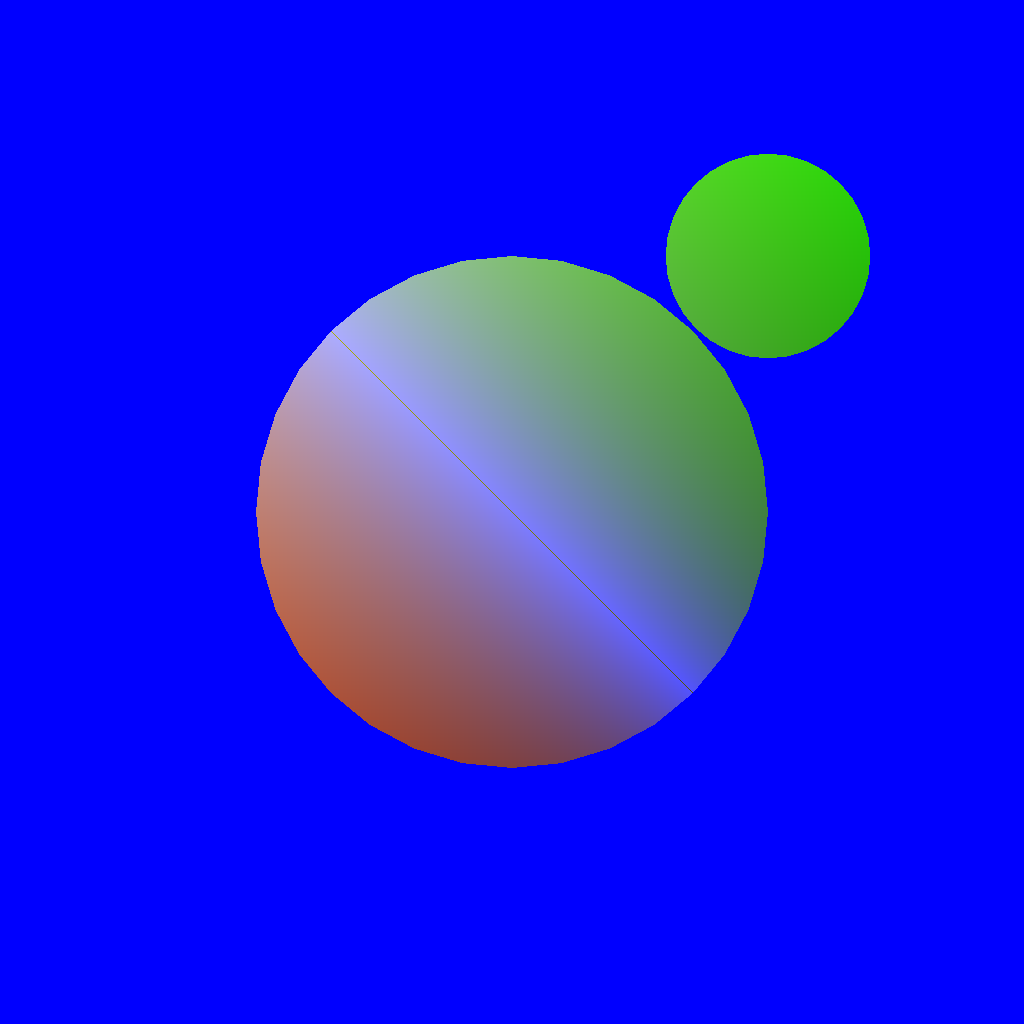
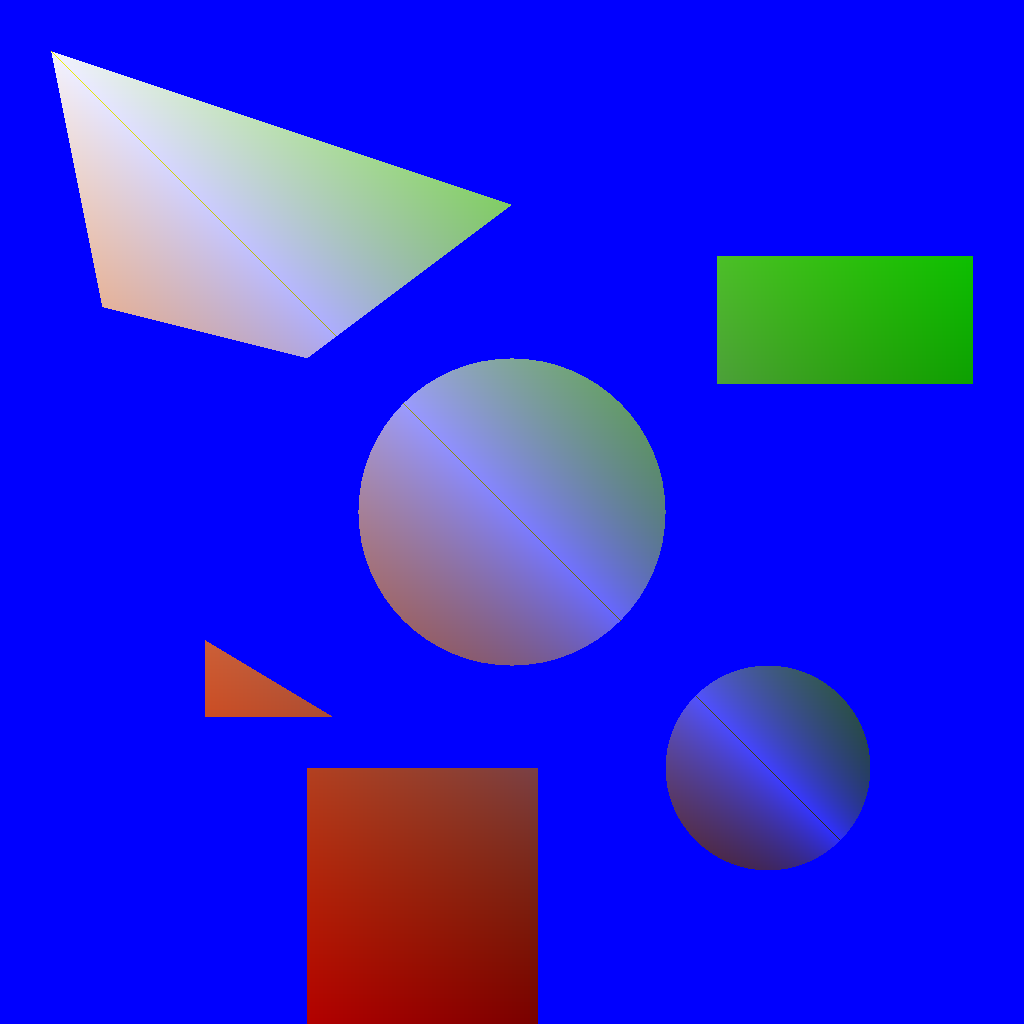
added more shapes

diff --git a/src/graphics.rs b/src/graphics.rs
@@ -1,7 +1,7 @@
-use vulkano::instance::{Instance, InstanceExtensions, PhysicalDevice};
 use vulkano::device::{Device, DeviceExtensions, Features, Queue};
 use vulkano::format::Format;
 use vulkano::image::{Dimensions, StorageImage};
+use vulkano::instance::{Instance, InstanceExtensions, PhysicalDevice};
 
 use vulkano::buffer::{BufferUsage, CpuAccessibleBuffer};
 use vulkano::command_buffer::{AutoCommandBufferBuilder, CommandBuffer};
@@ -14,16 +14,20 @@ use image::{ImageBuffer, Rgba};
 
 use vulkano::framebuffer::Framebuffer;
 
-use vulkano::pipeline::{GraphicsPipeline, vertex::TwoBuffersDefinition};
 use vulkano::framebuffer::Subpass;
+use vulkano::pipeline::{vertex::TwoBuffersDefinition, GraphicsPipeline};
 
 use vulkano::command_buffer::DynamicState;
 use vulkano::pipeline::viewport::Viewport;
 
 use lyon::math::Point;
-use lyon::tessellation::{VertexBuffers, FillOptions};
 use lyon::tessellation::basic_shapes;
-use lyon::tessellation::geometry_builder::simple_builder;
+use lyon::tessellation::FillTessellator;
+use lyon::tessellation::geometry_builder::{simple_builder, GeometryBuilder, FillGeometryBuilder, BuffersBuilder};
+use lyon::tessellation::math::Rect;
+use lyon::tessellation::math::Size;
+use lyon::tessellation::{FillOptions, VertexBuffers};
+use lyon::path::Path;
 
 #[derive(Default, Copy, Clone)]
 pub struct Vertex {
@@ -39,14 +43,14 @@ vulkano::impl_vertex!(Vertex, position);
 vulkano::impl_vertex!(Color, rgba);
 
 mod vs {
-    vulkano_shaders::shader!{
+    vulkano_shaders::shader! {
         ty: "vertex",
         path: "src/triangle.vert",
     }
 }
 
 mod fs {
-    vulkano_shaders::shader!{
+    vulkano_shaders::shader! {
         ty: "fragment",
         path: "src/triangle.frag",
     }
@@ -65,14 +69,25 @@ pub struct GraphicsContext {
 impl GraphicsContext {
     pub fn new() -> Self {
         let instance = Instance::new(None, &InstanceExtensions::none(), None).unwrap();
-        let physical = PhysicalDevice::enumerate(&instance).next().expect("no device available");
+        let physical = PhysicalDevice::enumerate(&instance)
+            .next()
+            .expect("no device available");
 
-        let queue_family = physical.queue_families()
+        let queue_family = physical
+            .queue_families()
             .find(|&q| q.supports_graphics())
             .expect("couldn't find a graphical queue family");
         let (device, mut queues) = {
-            Device::new(physical, &Features::none(), &DeviceExtensions{khr_storage_buffer_storage_class:true, ..DeviceExtensions::none()},
-                [(queue_family, 0.5)].iter().cloned()).expect("failed to create device")
+            Device::new(
+                physical,
+                &Features::none(),
+                &DeviceExtensions {
+                    khr_storage_buffer_storage_class: true,
+                    ..DeviceExtensions::none()
+                },
+                [(queue_family, 0.5)].iter().cloned(),
+            )
+            .expect("failed to create device")
         };
 
         let queue = queues.next().unwrap();
@@ -84,9 +99,9 @@ impl GraphicsContext {
             viewports: Some(vec![Viewport {
                 origin: [0.0, 0.0],
                 dimensions: [1024.0, 1024.0],
-                depth_range: 0.0 .. 1.0,
+                depth_range: 0.0..1.0,
             }]),
-            .. DynamicState::none()
+            ..DynamicState::none()
         };
 
         GraphicsContext {
@@ -101,76 +116,118 @@ impl GraphicsContext {
     }
 
     pub fn draw(&mut self) {
-        let buf = CpuAccessibleBuffer::from_iter(self.device.clone(), BufferUsage::all(), (0..1024*1024*4).map(|_| 0u8))
-            .expect("failed to create buffer");
+        let buf = CpuAccessibleBuffer::from_iter(
+            self.device.clone(),
+            BufferUsage::all(),
+            (0..1024 * 1024 * 4).map(|_| 0u8),
+        )
+        .expect("failed to create buffer");
 
-        let image = StorageImage::new(self.device.clone(), Dimensions::Dim2d { width: 1024, height: 1024 },
-        Format::R8G8B8A8Unorm, Some(self.queue.family())).unwrap();
+        let image = StorageImage::new(
+            self.device.clone(),
+            Dimensions::Dim2d {
+                width: 1024,
+                height: 1024,
+            },
+            Format::R8G8B8A8Unorm,
+            Some(self.queue.family()),
+        )
+        .unwrap();
 
-        let render_pass = Arc::new(vulkano::single_pass_renderpass!(self.device.clone(),
-        attachments: {
-            color: {
-                load: Clear,
-                store: Store,
-                format: Format::R8G8B8A8Unorm,
-                samples: 1,
+        let render_pass = Arc::new(
+            vulkano::single_pass_renderpass!(self.device.clone(),
+            attachments: {
+                color: {
+                    load: Clear,
+                    store: Store,
+                    format: Format::R8G8B8A8Unorm,
+                    samples: 1,
+                }
+            },
+            pass: {
+                color: [color],
+                depth_stencil: {}
             }
-        },
-        pass: {
-            color: [color],
-            depth_stencil: {}
-        }
-        ).unwrap());
-        let framebuffer = Arc::new(Framebuffer::start(render_pass.clone())
-            .add(image.clone()).unwrap()
-            .build().unwrap());
+            )
+            .unwrap(),
+        );
+        let framebuffer = Arc::new(
+            Framebuffer::start(render_pass.clone())
+                .add(image.clone())
+                .unwrap()
+                .build()
+                .unwrap(),
+        );
 
-        AutoCommandBufferBuilder::primary_one_time_submit(self.device.clone(), self.queue.family()).unwrap()
-            .begin_render_pass(framebuffer.clone(), false, vec![[0.0, 0.0, 1.0, 1.0].into()])
+        AutoCommandBufferBuilder::primary_one_time_submit(self.device.clone(), self.queue.family())
+            .unwrap()
+            .begin_render_pass(
+                framebuffer.clone(),
+                false,
+                vec![[0.0, 0.0, 1.0, 1.0].into()],
+            )
             .unwrap()
             .end_render_pass()
             .unwrap();
 
-        let graphics_pipeline = Arc::new(GraphicsPipeline::start()
-            .vertex_input_single_buffer::<Vertex>()
-            // .vertex_input(TwoBuffersDefinition::<Vertex, Color>::new())
-            .vertex_shader(self.vertex_shader.main_entry_point(), ())
-            .viewports_dynamic_scissors_irrelevant(1)
-            .fragment_shader(self.fragment_shader.main_entry_point(), ())
-            .render_pass(Subpass::from(render_pass.clone(), 0).unwrap())
-            .build(self.device.clone())
-            .unwrap());
+        let graphics_pipeline = Arc::new(
+            GraphicsPipeline::start()
+                .vertex_input_single_buffer::<Vertex>()
+                // .vertex_input(TwoBuffersDefinition::<Vertex, Color>::new())
+                .vertex_shader(self.vertex_shader.main_entry_point(), ())
+                .viewports_dynamic_scissors_irrelevant(1)
+                .fragment_shader(self.fragment_shader.main_entry_point(), ())
+                .render_pass(Subpass::from(render_pass.clone(), 0).unwrap())
+                .build(self.device.clone())
+                .unwrap(),
+        );
 
-        let vertex_buffer = self.geometry.vertices.iter().map(|vertex|{
-            Vertex {
-                position: [vertex.x, vertex.y],
-            }
+        let vertex_buffer = self.geometry.vertices.iter().map(|vertex| Vertex {
+            position: [vertex.x, vertex.y],
         });
-        let vertex_buffer = CpuAccessibleBuffer::from_iter(self.device.clone(), BufferUsage::all(), vertex_buffer).unwrap();
-        let index_buffer = CpuAccessibleBuffer::from_iter(self.device.clone(), BufferUsage::all(), self.geometry.indices.iter().cloned()).unwrap();
+        let vertex_buffer =
+            CpuAccessibleBuffer::from_iter(self.device.clone(), BufferUsage::all(), vertex_buffer)
+                .unwrap();
+        let index_buffer = CpuAccessibleBuffer::from_iter(
+            self.device.clone(),
+            BufferUsage::all(),
+            self.geometry.indices.iter().cloned(),
+        )
+        .unwrap();
 
-
-        let command_buffer = AutoCommandBufferBuilder::primary_one_time_submit(self.device.clone(), self.queue.family()).unwrap()
-            .begin_render_pass(framebuffer.clone(), false, vec![[0.0, 0.0, 1.0, 1.0].into()])
-            .unwrap()
-            .draw_indexed(
-                graphics_pipeline.clone(), 
-                &self.dynamic_state, 
-                vertex_buffer.clone(), 
-                index_buffer.clone(), 
-                (), 
-                ())
-            .unwrap()
-            .end_render_pass()
-            .unwrap()
-            .copy_image_to_buffer(image.clone(), buf.clone())
-            .unwrap()
-            .build()
-            .unwrap();
+        let command_buffer = AutoCommandBufferBuilder::primary_one_time_submit(
+            self.device.clone(),
+            self.queue.family(),
+        )
+        .unwrap()
+        .begin_render_pass(
+            framebuffer.clone(),
+            false,
+            vec![[0.0, 0.0, 1.0, 1.0].into()],
+        )
+        .unwrap()
+        .draw_indexed(
+            graphics_pipeline.clone(),
+            &self.dynamic_state,
+            vertex_buffer.clone(),
+            index_buffer.clone(),
+            (),
+            (),
+        )
+        .unwrap()
+        .end_render_pass()
+        .unwrap()
+        .copy_image_to_buffer(image.clone(), buf.clone())
+        .unwrap()
+        .build()
+        .unwrap();
 
         let finished = command_buffer.execute(self.queue.clone()).unwrap();
-        finished.then_signal_fence_and_flush().unwrap()
-            .wait(None).unwrap();
+        finished
+            .then_signal_fence_and_flush()
+            .unwrap()
+            .wait(None)
+            .unwrap();
 
         let buffer_content = buf.read().unwrap();
         let image = ImageBuffer::<Rgba<u8>, _>::from_raw(1024, 1024, &buffer_content[..]).unwrap();
@@ -179,8 +236,52 @@ impl GraphicsContext {
         self.geometry.indices.clear();
     }
 
-    pub fn new_circle(&mut self, pos: Point, rad: f32) {
-        let options = FillOptions::tolerance(0.001);
-        basic_shapes::fill_circle(pos, rad, &options, &mut simple_builder(&mut self.geometry));
+    pub fn new_circle(&mut self, pos: impl Into<Point>, rad: f32) {
+        let options = FillOptions::tolerance(0.0001);
+        basic_shapes::fill_circle(
+            pos.into(),
+            rad,
+            &options,
+            &mut simple_builder(&mut self.geometry),
+        );
+    }
+
+    pub fn new_rectangle(&mut self, pos: impl Into<Point>, sides: impl Into<Size>) {
+        let options = FillOptions::non_zero();
+        let rect = Rect::new(pos.into(), sides.into());
+        basic_shapes::fill_rectangle(&rect, &options, &mut simple_builder(&mut self.geometry));
+    }
+
+    pub fn new_quad(&mut self, points: [impl Into<Point> + Copy; 4]) {
+        let options = FillOptions::non_zero();
+        basic_shapes::fill_quad(
+            points[0].into(),
+            points[1].into(),
+            points[2].into(),
+            points[3].into(),
+            &options,
+            &mut simple_builder(&mut self.geometry),
+        );
+    }
+
+    pub fn new_triangle(&mut self, points: [impl Into<Point> + Copy; 3]) {
+        let options = FillOptions::default();
+
+        let mut path_builder = Path::builder();
+        path_builder.move_to(points[0].into());
+        path_builder.line_to(points[1].into());
+        path_builder.line_to(points[2].into());
+        path_builder.close();
+
+        let path = path_builder.build();
+
+        let mut tesselator = FillTessellator::new();
+        tesselator.tessellate_with_ids(
+            path.id_iter(),
+            &path,
+            Some(&path),
+            &options,
+            &mut simple_builder(&mut self.geometry),
+            );
     }
 }

diff --git a/src/main.rs b/src/main.rs
@@ -1,17 +1,15 @@
 mod graphics;
 use graphics::GraphicsContext;
-use graphics::Vertex;
-
-use lyon::math::Point;
-use lyon::tessellation::{VertexBuffers, FillOptions};
-use lyon::tessellation::basic_shapes;
-use lyon::tessellation::geometry_builder::simple_builder;
 
 fn main() {
-    // image.save("triangle.png").unwrap()
-    
     let mut ctx = GraphicsContext::new();
-    ctx.new_circle(Point::new(0.0, 0.0), 0.5);
-    ctx.new_circle(Point::new(0.5, -0.5), 0.2);
+    ctx.new_circle([0.0, 0.0], 0.3);
+    ctx.new_circle([0.5, 0.5], 0.2);
+    ctx.new_rectangle([0.4, -0.5], [0.5, 0.25]);
+    ctx.new_quad([
+        [-0.9, -0.9], [-0.8, -0.4], [-0.4, -0.3], [0.0, -0.6]
+    ]);
+    ctx.new_rectangle([-0.4, 0.5], [0.45, 0.56]);
+    ctx.new_triangle([[-0.6, 0.4], [-0.6, 0.25], [-0.35, 0.4]]);
     ctx.draw();
 }
